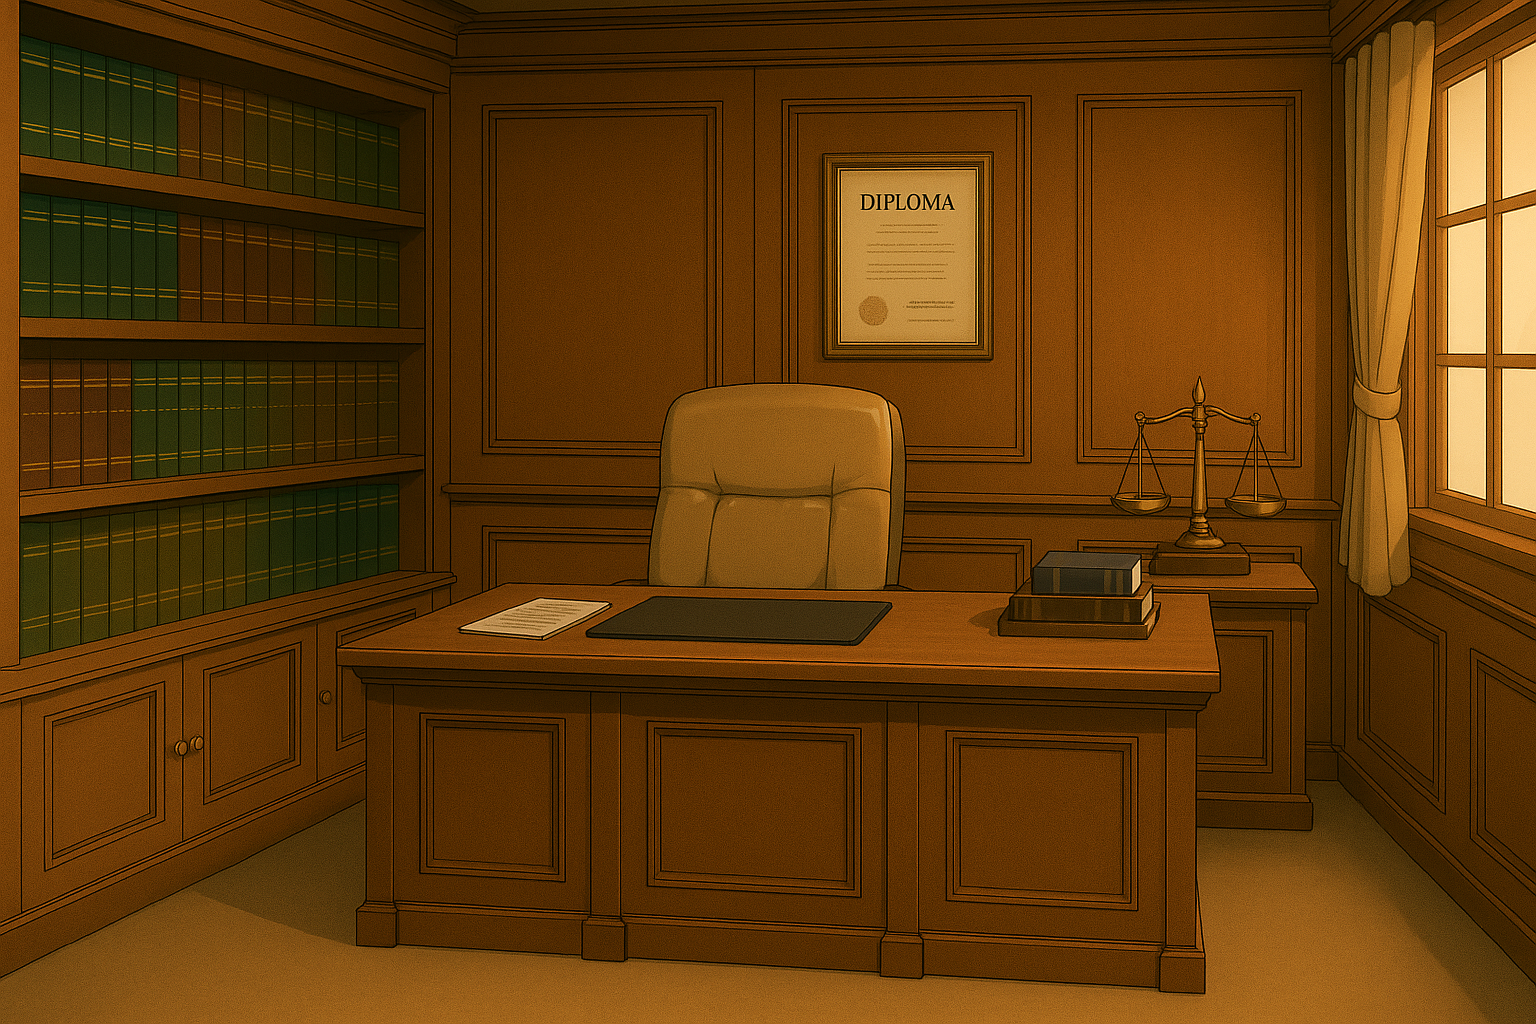
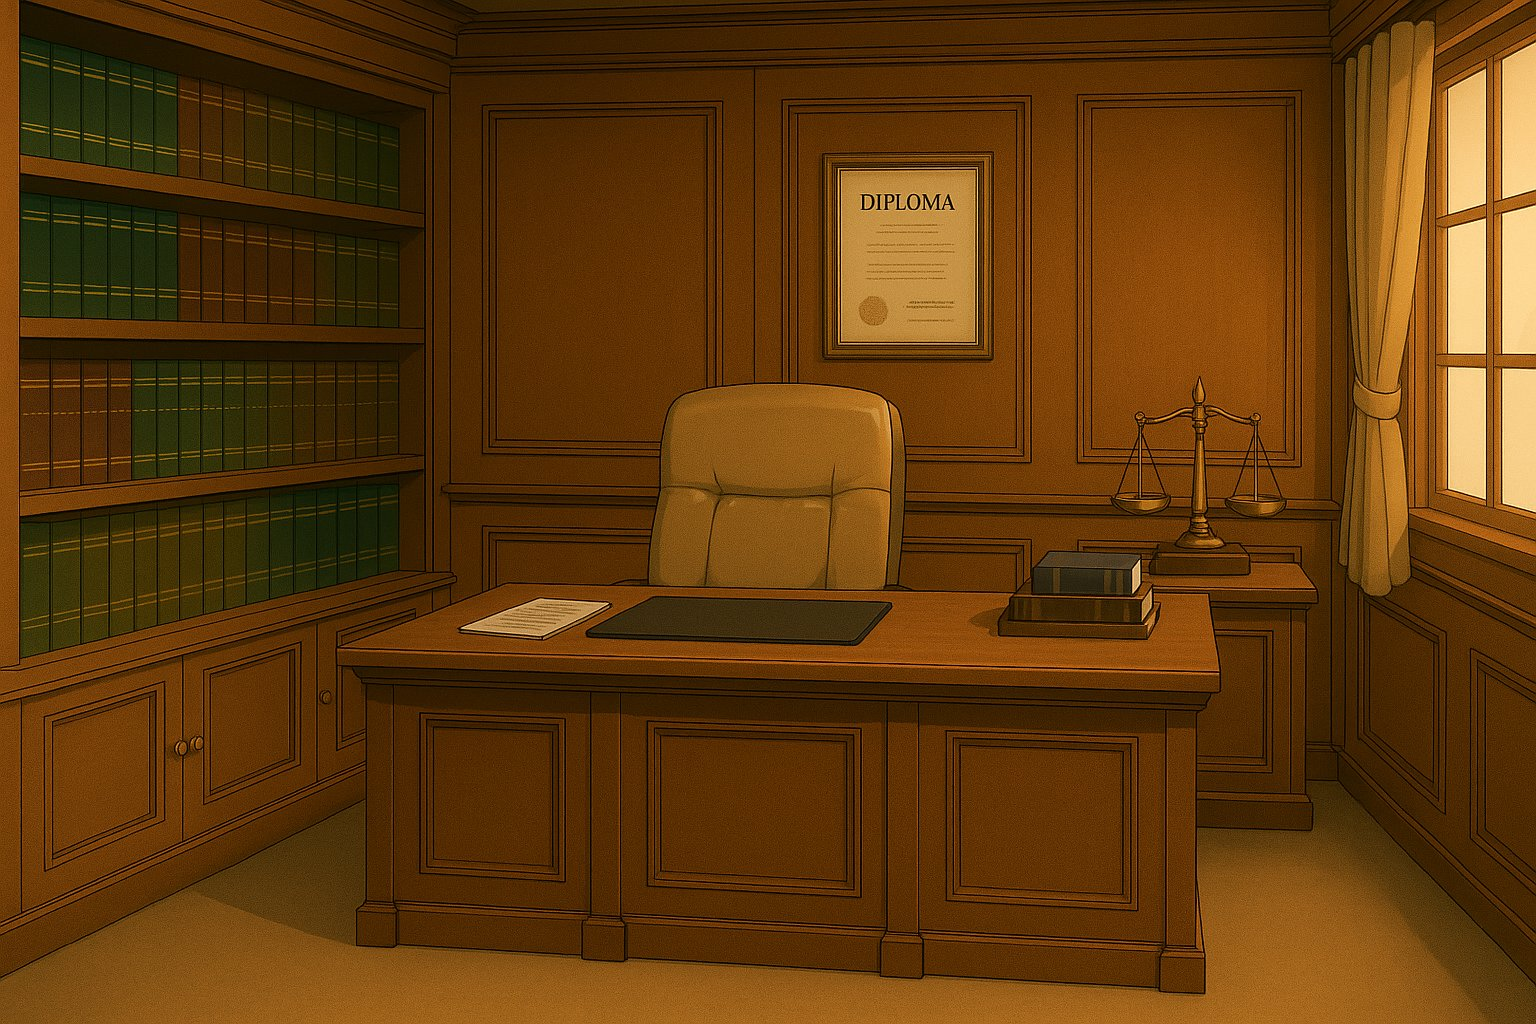
Imágenes livianas: el juego carga con 3 MB en vez de 27 MB
Los personajes pasan a WebP y los fondos a JPG, sin cambio visible.
El juego usa esas copias; los PNG originales dejan de publicarse.

optimizar_imagenes.py genera las copias livianas de las imágenes
nuevas, y las guías de guion y de personajes explican ese paso.

diff --git a/game.js b/game.js
@@ -48,28 +48,28 @@ document.addEventListener('DOMContentLoaded', () => {
 
     // --- RUTAS DE LAS IMÁGENES ---
     const AVATARS = {
-        villegas: "avatares/avatar_villegas.png",
-        jugador: "avatares/avatar_jugador.png",
-        anselmo: "avatares/avatar_anselmo.png",
-        sofia: "avatares/avatar_sofia.png",
-        ricardo: "avatares/avatar_ricardo.png",
-        elena: "avatares/avatar_elena.png",
-        hernan: "avatares/avatar_hernan.png",
-        valentina: "avatares/avatar_valentina.png",
-        julian: "avatares/avatar_julian.png",
-        martin: "avatares/avatar_martin.png",
-        octavio: "avatares/avatar_octavio.png",
-        fabio: "avatares/avatar_fabio.png",
-        jueza: "avatares/avatar_jueza.png",
-        inspectora: "avatares/avatar_inspectora.png",
-        laura: "avatares/avatar_laura.png",
+        villegas: "avatares/avatar_villegas.webp",
+        jugador: "avatares/avatar_jugador.webp",
+        anselmo: "avatares/avatar_anselmo.webp",
+        sofia: "avatares/avatar_sofia.webp",
+        ricardo: "avatares/avatar_ricardo.webp",
+        elena: "avatares/avatar_elena.webp",
+        hernan: "avatares/avatar_hernan.webp",
+        valentina: "avatares/avatar_valentina.webp",
+        julian: "avatares/avatar_julian.webp",
+        martin: "avatares/avatar_martin.webp",
+        octavio: "avatares/avatar_octavio.webp",
+        fabio: "avatares/avatar_fabio.webp",
+        jueza: "avatares/avatar_jueza.webp",
+        inspectora: "avatares/avatar_inspectora.webp",
+        laura: "avatares/avatar_laura.webp",
         none: ""
     };
     
     const BACKGROUNDS = {
         oficina: `url('bg/fondo_oficina.jpg')`,
         campo: `url('bg/fondo_campo.jpg')`,
-        granja: `url('bg/fondo_granja.png')`
+        granja: `url('bg/fondo_granja.jpg')`
     };
 
     // --- GLOSARIO DE TÉRMINOS JURÍDICOS ---
@@ -1038,7 +1038,7 @@ document.addEventListener('DOMContentLoaded', () => {
             backToMenuButton.onclick = () => {
                 gameContainer.style.display = 'none';
                 mainMenuContainer.style.display = 'flex';
-                document.body.style.backgroundImage = `url('bg/inicial.png')`;
+                document.body.style.backgroundImage = `url('bg/inicial.jpg')`;
                 actualizarBotonCarga();
             };
             choicesBox.appendChild(backToMenuButton);

diff --git a/style.css b/style.css
@@ -11,7 +11,7 @@ body, html {
 }
 
 body {
-    background-image: url('bg/inicial.png'); /* Fondo del menú */
+    background-image: url('bg/inicial.jpg'); /* Fondo del menú */
     background-size: cover;
     background-position: center;
     background-repeat: no-repeat;

diff --git a/optimizar_imagenes.py b/optimizar_imagenes.py
@@ -1,0 +1,69 @@
+"""Genera las copias livianas de las imágenes que usa el juego.
+
+Uso (desde la carpeta del juego):  python optimizar_imagenes.py
+Requiere Pillow:                    pip install pillow
+
+- avatares/*.png  ->  avatares/*.webp   (conserva la transparencia)
+- bg/*.png        ->  bg/*.jpg
+- bg/*.jpg pesados se recomprimen en el mismo archivo
+
+Solo procesa lo que falta o lo que cambió, así que puede ejecutarse cuantas
+veces haga falta. Los PNG originales se quedan en la carpeta y no se publican.
+"""
+from pathlib import Path
+from PIL import Image
+
+RAIZ = Path(__file__).parent
+ALTO_AVATAR = 1200      # los personajes más altos se reducen a este alto
+ANCHO_FONDO = 1920      # los fondos más anchos se reducen a este ancho
+JPG_PESADO = 0.6        # bytes por píxel a partir de los cuales un JPG se recomprime
+
+
+def kb(ruta):
+    return f"{ruta.stat().st_size / 1024:.0f} KB"
+
+
+def pendiente(origen, destino):
+    return not destino.exists() or origen.stat().st_mtime > destino.stat().st_mtime
+
+
+def reducir(im, ancho=None, alto=None):
+    w, h = im.size
+    f = min(ancho / w if ancho else 1, alto / h if alto else 1, 1)
+    return im if f == 1 else im.resize((round(w * f), round(h * f)), Image.LANCZOS)
+
+
+def avatares():
+    for png in sorted((RAIZ / "avatares").glob("*.png")):
+        if png.stem.endswith("_cuerpo_entero"):
+            continue    # respaldos que el juego no usa
+        webp = png.with_suffix(".webp")
+        if pendiente(png, webp):
+            im = Image.open(png).convert("RGBA")
+            if im.height > ALTO_AVATAR * 1.1:
+                im = reducir(im, alto=ALTO_AVATAR)
+            im.save(webp, "WEBP", quality=90, alpha_quality=100, method=6)
+            print(f"{png.name}: {kb(png)} -> {webp.name}: {kb(webp)}")
+
+
+def fondos():
+    carpeta = RAIZ / "bg"
+    for png in sorted(carpeta.glob("*.png")):
+        jpg = png.with_suffix(".jpg")
+        if pendiente(png, jpg):
+            reducir(Image.open(png).convert("RGB"), ancho=ANCHO_FONDO).save(
+                jpg, "JPEG", quality=85, optimize=True, progressive=True)
+            print(f"{png.name}: {kb(png)} -> {jpg.name}: {kb(jpg)}")
+    for jpg in sorted(carpeta.glob("*.jpg")):
+        im = Image.open(jpg)
+        if jpg.stat().st_size / (im.width * im.height) > JPG_PESADO:
+            antes = kb(jpg)
+            im = reducir(im.convert("RGB"), ancho=ANCHO_FONDO)
+            im.save(jpg, "JPEG", quality=85, optimize=True, progressive=True)
+            print(f"{jpg.name}: {antes} -> {kb(jpg)}")
+
+
+if __name__ == "__main__":
+    avatares()
+    fondos()
+    print("Listo.")

diff --git a/ESTRUCTURA_GUION.md b/ESTRUCTURA_GUION.md
@@ -121,13 +121,14 @@ El nombre que se muestra sobre el diálogo sale de la constante `NOMBRES` de `ga
 
 ### Cómo Agregar un Personaje
 1. Guardar la imagen en `avatares/` con el nombre `avatar_[id].png` (minúsculas, sin tildes ni espacios).
-2. Agregar la ruta en la constante `AVATARS` de `game.js`: `elena: "avatares/avatar_elena.png"`.
-3. Agregar el nombre visible en la constante `NOMBRES`: `elena: 'Elena'`.
-4. Usar el `id` en el campo `speaker` de los nodos.
+2. Ejecutar `python optimizar_imagenes.py` en la carpeta del juego. Crea `avatar_[id].webp`, la copia liviana que usa el juego; el PNG original se queda en la carpeta y no se publica.
+3. Agregar la ruta en la constante `AVATARS` de `game.js`: `elena: "avatares/avatar_elena.webp"`.
+4. Agregar el nombre visible en la constante `NOMBRES`: `elena: 'Elena'`.
+5. Usar el `id` en el campo `speaker` de los nodos.
 
 ### Requisitos de la Imagen de un Personaje
 - **Formato**: PNG con fondo transparente.
-- **Proporción**: vertical, cercana a 3:4 (por ejemplo 896 × 1152 o 896 × 1200 píxeles, como `avatar_villegas.png`).
+- **Proporción**: vertical, cercana a 3:4 (por ejemplo 896 × 1152 o 896 × 1200 píxeles, como el avatar de Villegas).
 - **Encuadre**: de medio muslo hacia arriba, con el personaje ocupando casi toda la altura y las piernas cortadas por el borde inferior. El motor apoya la imagen en la base del escenario; un cuerpo entero con márgenes se ve pequeño al lado de los demás.
 - **Orientación**: de frente o girado levemente. El motor voltea la imagen cuando el nodo usa `avatarDirection: 'right'`, así que no debe llevar texto ni logotipos legibles.
 - **Estilo**: ilustración tipo anime de línea limpia, sombreado plano con degradados suaves, proporciones realistas y colores sobrios, igual que los avatares existentes.
@@ -135,7 +136,9 @@ El nombre que se muestra sobre el diálogo sale de la constante `NOMBRES` de `ga
 ### Fondos Disponibles
 - **oficina**: `bg/fondo_oficina.jpg`
 - **campo**: `bg/fondo_campo.jpg` 
-- **granja**: `bg/fondo_granja.png`
+- **granja**: `bg/fondo_granja.jpg`
+
+Un fondo nuevo se guarda en `bg/` (en PNG o JPG) y se pasa por `python optimizar_imagenes.py`, que deja un JPG liviano. Luego se agrega a la constante `BACKGROUNDS` de `game.js`.
 
 ### Direcciones de Avatar
 - **left**: Avatar mirando hacia la izquierda (por defecto)

diff --git a/PERSONAJES.md b/PERSONAJES.md
@@ -5,9 +5,10 @@ Reparto del juego y prompts con los que se generaron las imágenes. Los catorce 
 ## Cómo usar este archivo
 
 1. Copia el prompt completo del personaje en tu generador de imágenes. Están en inglés porque los generadores responden mejor así.
-2. Si el generador acepta una imagen de referencia de estilo, adjunta `avatares/avatar_villegas.png`. Es lo que más ayuda a mantener la coherencia.
+2. Si el generador acepta una imagen de referencia de estilo, adjunta `avatares/avatar_villegas.webp`. Es lo que más ayuda a mantener la coherencia.
 3. Guarda cada imagen en `avatares/` con el nombre de archivo indicado.
 4. Si la imagen sale con fondo blanco y no transparente, guárdala igual: el fondo se puede quitar después.
+5. Ejecuta `python optimizar_imagenes.py` en la carpeta del juego. Crea la copia liviana `avatar_[id].webp`, que es la que usa el juego; el PNG original se queda en la carpeta y no se publica.
 
 ## Requisitos de la imagen
 

diff --git a/README.md b/README.md
@@ -28,6 +28,7 @@ Los casos 2 a 6 parten de providencias del Tribunal de Justicia de la Comunidad 
 | `ESTRUCTURA_GUION.md` | Cómo se escribe un caso |
 | `PERSONAJES.md` | Reparto y guía para dibujar personajes |
 | `avatares/`, `bg/` | Personajes y fondos |
+| `optimizar_imagenes.py` | Genera las copias livianas de las imágenes (WebP y JPG) |
 
 ## Aviso
 
